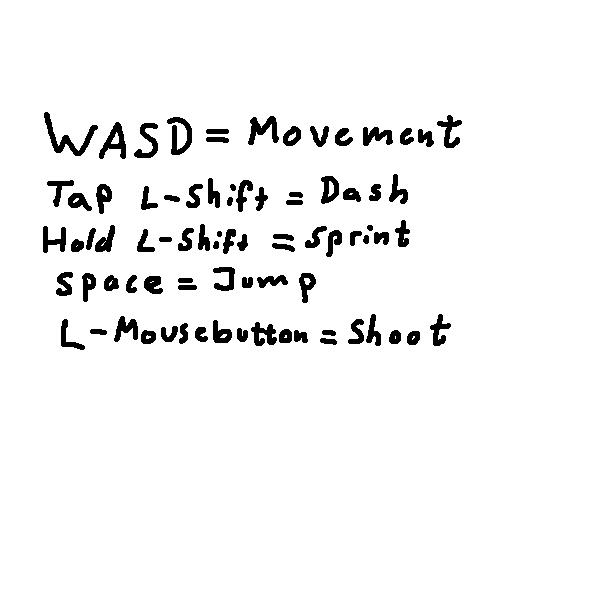
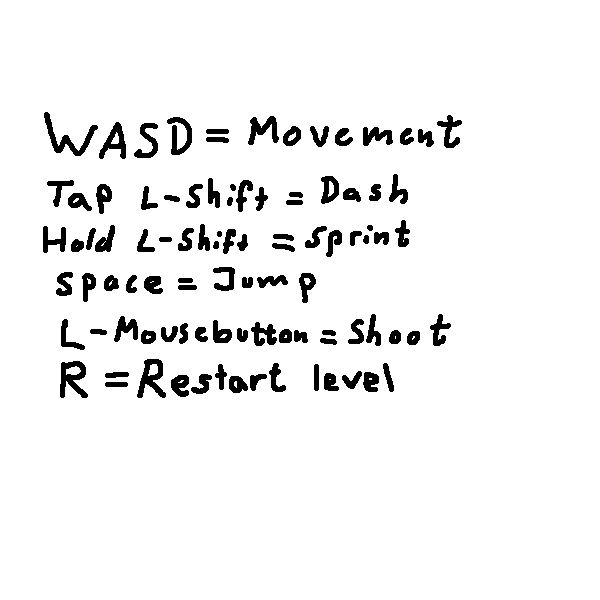
Added restart level on pressing R with event triggered on sceneloader. A bit shady that the nextlevel gets an event script in the player from inspector... But it was quick!

Changed region(s): [[0.18, 0.6, 0.48, 0.66], [0.51, 0.6, 0.66, 0.66], [0.09, 0.6, 0.15, 0.66]]

diff --git a/MainProjectGroup8/Assets/Scripts/_CollabScripts/Movement/PlayerInputController.cs b/MainProjectGroup8/Assets/Scripts/_CollabScripts/Movement/PlayerInputController.cs
@@ -29,6 +29,8 @@ public class PlayerInputController : MonoBehaviour
 	
 	public bool FlyingInput { get; private set; }
 
+ 
+	public bool RestartLevelInput { get; private set; }
 	private void Update()
 	{
 		GetInputs();
@@ -45,6 +47,7 @@ public class PlayerInputController : MonoBehaviour
 		JumpInput = Input.GetKey(KeyCode.Space);
 		FlyingInput = Input.GetKey(KeyCode.Q);
 		ParachuteInput = Input.GetKey(KeyCode.E);
+		RestartLevelInput = Input.GetKeyDown(KeyCode.R);
 		LShiftTap = false;
 
 		if (Input.GetKey(KeyCode.LeftShift))
@@ -68,6 +71,7 @@ public class PlayerInputController : MonoBehaviour
 		commandContainer.SprintCommand = LShiftLongPress;
 		commandContainer.ChargingSprint = chargingSprint;
 		commandContainer.MoveDirectionCommand = MoveInput;
+		commandContainer.RestartLevel = RestartLevelInput;
 	}
 
 	private void TapInput()

diff --git a/MainProjectGroup8/Assets/Scripts/_CollabScripts/UI/SceneLoader.cs b/MainProjectGroup8/Assets/Scripts/_CollabScripts/UI/SceneLoader.cs
@@ -1,14 +1,31 @@
+using System;
 using UnityEngine.SceneManagement;
 using UnityEngine;
 
 public class SceneLoader : MonoBehaviour
 {
-
+	[SerializeField]
+	private PlayerRestartLevelEventEmitter restartLevelEventEmitter;
 	[SerializeField]
 	private int sceneIndex;
+
+	private void OnEnable() => restartLevelEventEmitter.OnRestartLevel += RestartThisLevel;
+
+	private void OnDisable() => restartLevelEventEmitter.OnRestartLevel -= RestartThisLevel;
+
 	public void LoadScene()
 	{
 		Debug.Log($"Loading scene {sceneIndex}");
 		SceneManager.LoadScene(sceneIndex);
+	}
+
+	 
+
+	public void RestartThisLevel()
+	{
+		
+		Debug.Log("Restarting Level");
+		Scene scene = SceneManager.GetActiveScene();
+		SceneManager.LoadScene(scene.name);	
 	}
 }

diff --git a/MainProjectGroup8/Assets/Scripts/_CollabScripts/PlayerRestartLevelEventEmitter.cs b/MainProjectGroup8/Assets/Scripts/_CollabScripts/PlayerRestartLevelEventEmitter.cs
@@ -1,0 +1,18 @@
+ using System;
+ using UnityEngine;
+
+public class PlayerRestartLevelEventEmitter : MonoBehaviour
+{
+	public Action OnRestartLevel;
+
+	[SerializeField]
+	private CommandContainer commandContainer;
+	
+	private void Update()
+	{
+		if (commandContainer.RestartLevel)
+		{
+			OnRestartLevel.Invoke();
+		}
+	}
+}

diff --git a/MainProjectGroup8/Assets/Scripts/_CollabScripts/General/CommandContainer.cs b/MainProjectGroup8/Assets/Scripts/_CollabScripts/General/CommandContainer.cs
@@ -9,6 +9,7 @@ public class CommandContainer : MonoBehaviour
 	public bool JumpCommandDown;
 	public bool JumpCommandUp;
 	public bool JumpCommand;
+	public bool RestartLevel;
 
 	public bool DashCommand;
 	public bool SprintCommand;

diff --git a/MainProjectGroup8/Assets/Scripts/_CollabScripts/NextLevelTrigger.cs b/MainProjectGroup8/Assets/Scripts/_CollabScripts/NextLevelTrigger.cs
@@ -9,6 +9,7 @@ public class NextLevelTrigger : MonoBehaviour
 	{
 		if (other.gameObject.CompareTag("Player"))
 		{
+			
 			sceneLoader.LoadScene();
 		}
 	}
